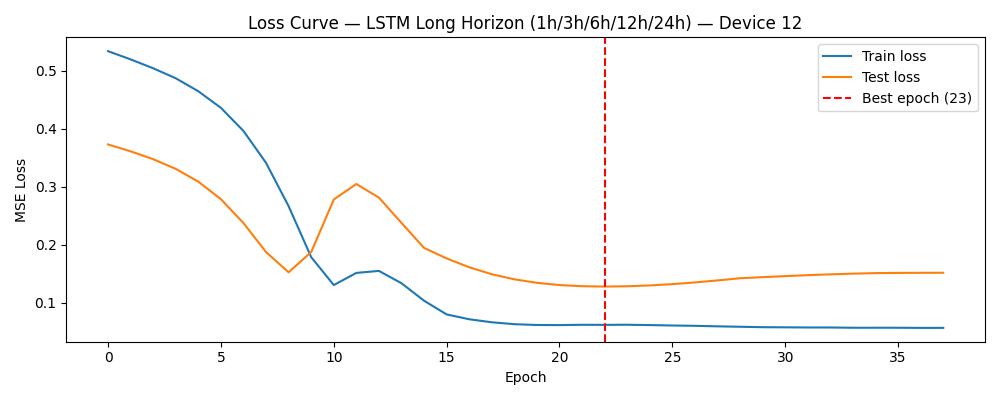
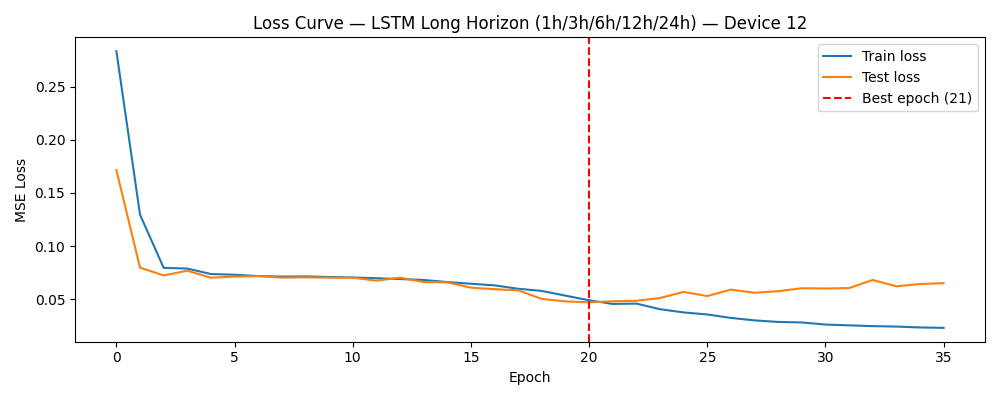
update device connect and model precision

diff --git a/forecast/time_forecast/short_forecast/lstm_train.py b/forecast/time_forecast/short_forecast/lstm_train.py
@@ -39,7 +39,7 @@ def load_data():
             AVG(humidity)    AS humidity,
             AVG(aqi)         AS aqi
         FROM readings
-        WHERE device_id = 6 AND aqi != 0
+        WHERE device_id = 12 AND aqi != 0
         GROUP BY date_trunc('minute', timestamp)
         ORDER BY ts ASC;
     """